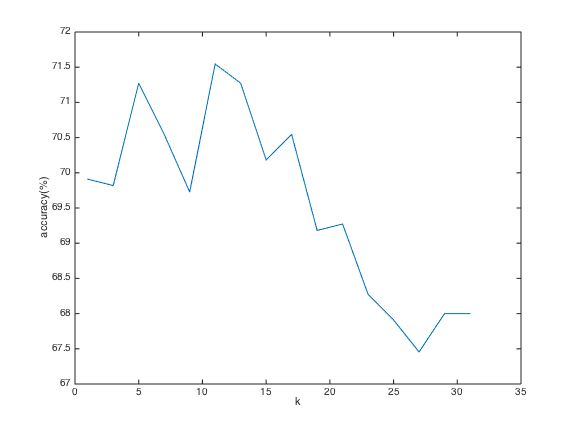
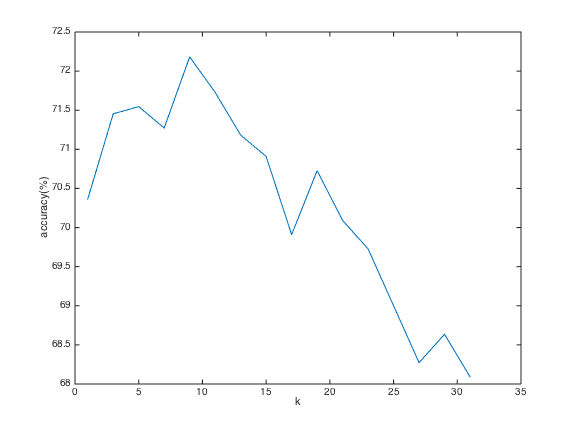
roc for part one

diff --git a/Part1.m b/Part1.m
@@ -146,38 +146,40 @@ indices = crossvalind('Kfold', split, 5);
 %select soft margin penalty term "c" from the set [0.1, 0.5, 1, 2, 5, 10, 20, 50] 
 for i = 1:length(c)
     %select kernel width parameter "gamma" from the set [0.01, 0.05, 0.1, 0.5, 1, 2, 5, 10]
-    for j = 1:length(gamma)       
-        correct = zeros(1,5);
-        %Using 5-fold cross validation on the training set
+    for j = 1:length(gamma)               
+%         %one way
+%         correct = zeros(1,5);
+%         %Using 5-fold cross validation on the training set
+%         for k = 1:5
+%             crossTrain_data = Train_data((indices~=k),:);
+%             crossTrain_class = Train_class((indices~=k),:);
+%             crossTest_data = Train_data((indices==k),:);
+%             crossTest_class = Train_class((indices==k),:);
+%             
+%             SVMStruct = svmtrain(crossTrain_data, crossTrain_class, 'kernel_function', 'rbf', 'boxconstraint', c(i), 'rbf_sigma', sqrt(1/(2*gamma(j))));
+%             label_svm = svmclassify(SVMStruct, crossTest_data);
+%
+%             correct(k) =  sum(label_svm == crossTest_class);
+%         end
+%         correct_svm(i, j) = mean(correct); 
+%         accuracy_svm(i, j) = correct_svm(i, j) /(split/5)*100;
+
+        %another way using libsvm fuction 
+        accuracy = zeros(1,5);
         for k = 1:5
             crossTrain_data = Train_data((indices~=k),:);
             crossTrain_class = Train_class((indices~=k),:);
             crossTest_data = Train_data((indices==k),:);
             crossTest_class = Train_class((indices==k),:);
             
-            paramString = sprintf('-c %f -t 2 -g %f', c(i), gamma(j));
-            model = svmtrain(crossTrain_class, crossTrain_data, paramString);
-            [predict_label, accuracy, prob_values] = svmpredict(crossTest_class, crossTest_data, model);
-            
-            correct(k) =  accuracy(1);
+            %if set '-v 5', return accuracy of classification using 5-fold cross validation ranther than a svmmodel
+            paramString = sprintf('-c %f -t 2 -g %f -b 1', c(i), gamma(j));
+            model_svm = libsvmtrain(crossTrain_class, crossTrain_data, paramString);
+            [~, accu, ~] = libsvmpredict(crossTest_class, crossTest_data, model_svm, '-b 1');
+        
+          accuracy(k) = accu(1);
         end
-        %correct_svm(i, j) = mean(correct); 
-        accuracy_svm(i, j) = mean(correct); 
-        %accuracy_svm(i, j) = correct_svm(i, j) /(split/5)*100;
-
-%         %the third way using libsvm fuction 
-%         for k = 1:5
-%             crossTrain_data = Train_data((indices~=k),:);
-%             crossTrain_class = Train_class((indices~=k),:);
-%             crossTest_data = Train_data((indices==k),:);
-%             crossTest_class = Train_class((indices==k),:);
-%             %if set '-v 5', return accuracy of classification using 5-fold cross validation ranther than a svmmodel
-%             model_svm = libsvmtrain(crossTrain_class, crossTrain_data, ['-t 2 -b 1 -c ',num2str(c(i)),' -g ',num2str(gamma(j))]);
-%             [label_svm, accuracy, prob_estimates] = libsvmpredict(crossTest_class, crossTest_data, model_svm);
-%         
-%           accuracy_svm(i, j) = accuracy(1);
-%         end
-
+        accuracy_svm(i, j) = mean(accuracy)
         if (maxAccuracy_svm < accuracy_svm(i, j))
             maxAccuracy_svm = accuracy_svm(i, j);
             bestc = c(i);
@@ -187,15 +189,13 @@ for i = 1:length(c)
 end
 %%
 %use bestc and bestgamma to classify the data 
-%SVMModel = fitcsvm(Train_data, Train_class, 'KernelFunction', 'rbf', 'BoxConstraint', bestc, 'KernelScale', bestgamma);
-%[bestlabel_svm, bestscore_svm] = predict(SVMModel, Test_data);
 
-paramString = sprintf('-c %f -t 2 -b 1 -g %f', bestc, bestgamma);
-model = svmtrain(Train_class, Train_data, paramString);
-[predict_label, accuracy, prob_values] = svmpredict(Test_class, Test_data, model);
-
+paramString = sprintf('-c %f -t 2 -g %f -b 1', bestc, bestgamma);
+model_svm = libsvmtrain(Train_class, Train_data, paramString);
+[label_svm, accu, prob_estimates] = libsvmpredict(Test_class, Test_data, model_svm, '-b 1');
+        
 %trasform Test_class
-Test_target = zeros(2,r-split);
+Test_target = zeros(2, r-split);
     
 for j = 1:split
     if Test_class(j,1) == 1
@@ -207,17 +207,11 @@ for j = 1:split
     end 
 end
 
-% %???not sure about transform bestscore_svm to [0,1]
-% for i = 1:split/5
-%     for j = 1:2
-%         bestscore_svm(i,j) = (bestscore_svm(i,j)-min(bestscore_svm(:,j))) / (max(bestscore_svm(:,j))-min(bestscore_svm(:,j)));
-%     end
-% end
-
 %plot ROC curve
-[tpr,fpr,thresholds] = roc(Test_target,bestscore_svm');
+[tpr,fpr,thresholds] = roc(Test_target, prob_estimates');
 figure;
-plotroc(Test_target,bestscore_svm');
+plotroc(Test_target, prob_estimates');
+print(gcf, 'images\SVM-ROC', '-dpng', '-r0');
 
 %% Now that we have the best c and gamma, train and test with all data:
 
@@ -236,25 +230,21 @@ for i = 1:20
     randomTrain_class = gnd(ran(1:split),:);
     randomTest_data = feaZ(ran(split+1:end),:);
     randomTest_class = gnd(ran(split+1:end),:);
-
-    tic;
+    
     paramString = sprintf('-c %f -t 2 -g %f', bestc, bestgamma);
-    model = svmtrain(randomTrain_class, randomTrain_data, paramString);
-
-    %SVMModel = fitcsvm(randomTrain_data, randomTrain_class, 'KernelFunction', 'rbf', 'BoxConstraint', bestc, 'KernelScale', bestgamma);
+    tic;
+    model_svm = libsvmtrain(randomTrain_class, randomTrain_data, paramString);
     trainTime(i,j) = toc;
 
     tic;
-    [label_svm, score_svm, prob_values] = svmpredict(randomTest_class, randomTest_data, model);
-    %[label_svm, score_svm] = predict(SVMModel, randomTest_data); 
+    [label_svm, accu, prob_estimates] = libsvmpredict(randomTest_class, randomTest_data, model_svm);
     classifyTime(i,j) = toc;
 
-    Correct = sum(label_svm == randomTest_class);
     tpfp = sum(label_svm == 1);
     tpfn = sum(randomTest_class == 1);
     tp = sum(label_svm == (randomTest_class == 1));
 
-    Accuracy_svm(i) = score_svm(1); %Correct/(r-split)*100;
+    Accuracy_svm(i) = accu(1); 
     Precision_svm(i) = tp/tpfp;
     Recall_svm(i) = tp/tpfn;
     Fmeasure_svm(i) = 2 / (1/Precision_svm(i) + 1/Recall_svm(i));

diff --git a/Part2.m b/Part2.m
@@ -30,13 +30,24 @@ feaD4 = score(:,1:4);
 cluster_singlelink = clusterdata(feaD4, 'linkage', 'single', 'maxclust', 10);
 
 % evaluate the clustering result of Single Link
-%% Separation Index of Single Link:                                        need to be added
+%% Separation Index of Single Link:                                        
 
-[r,c] = size(fea);
+[r,c] = size(feaD4);
+
+centroid_singlelink = zeros(10, 4);
+for i = 1:10
+    feaD4_cluster = feaD4((cluster_singlelink == i), :);
+    centroid_singlelink(i, :) = sum(feaD4_cluster,1)/sum((cluster_singlelink == i));
+end
+
+for i = 1:10
+    sum((a-b).^2)
+Separationindex_singlelink = 
+
 
 %% Rand index of Single Link:
 
-[r,c] = size(fea);
+[r,c] = size(feaD4);
 M = (r*(r-1))/2; %total number of pairs of samples
 
 a = 0; %number of samples in the same class and the same cluster
@@ -88,7 +99,7 @@ cluster_completelink = clusterdata(feaD4, 'linkage', 'complete', 'maxclust', 10)
 
 % evaluate the clustering result of Complete Link
 %% Rand index of Complete Link:
-[r,c] = size(fea);
+[r,c] = size(feaD4);
 M = (r*(r-1))/2; %total number of pairs of samples
 
 a = 0; %number of samples in the same class and the same cluster
@@ -138,7 +149,7 @@ end
 cluster_ward = clusterdata(feaD4, 'linkage', 'ward', 'maxclust', 10);
 % evaluate the clustering result of Ward's
 %% Rand index of Ward's:
-[r,c] = size(fea);
+[r,c] = size(feaD4);
 M = (r*(r-1))/2; %total number of pairs of samples
 
 a = 0; %number of samples in the same class and the same cluster
@@ -195,7 +206,7 @@ end
 
 %% Cluster the data using K-means algorithm
 
-[r,c] = size(fea);
+[r,c] = size(feaD4);
 M = (r*(r-1))/2; %total number of pairs of samples
 
 Separationindex_kmeans = zeros(1,14);
@@ -269,7 +280,7 @@ print(gcf, 'images\K-Means', '-dpng', '-r0');
 
 %% Cluster the data using Fuzzy C-means algorithm
 
-[r,c] = size(fea);
+[r,c] = size(feaD4);
 
 %set the exponent for partition matrix to 2
 options = [2; nan; nan ; nan];
@@ -318,11 +329,11 @@ end
 % evaluate the clustering result of Fuzzy C-means
 %% Separation Index of Fuzzy C-means:                                        need to be added
 
-[r,c] = size(fea);
+[r,c] = size(feaD4);
 
 %% Rand index of Fuzzy C-means:
 
-[r,c] = size(fea);
+[r,c] = size(feaD4);
 M = (r*(r-1))/2; %total number of pairs of samples
 
 a = 0; %number of samples in the same class and the same cluster
